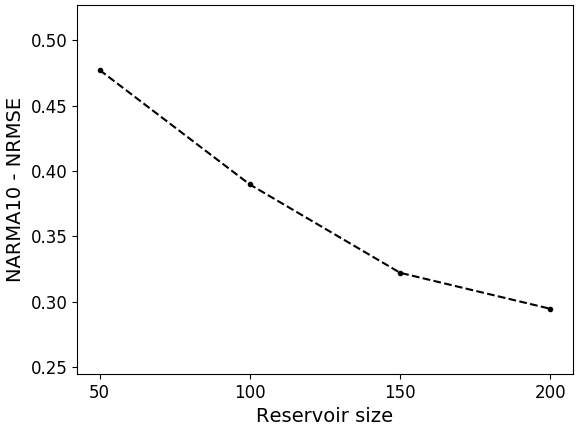
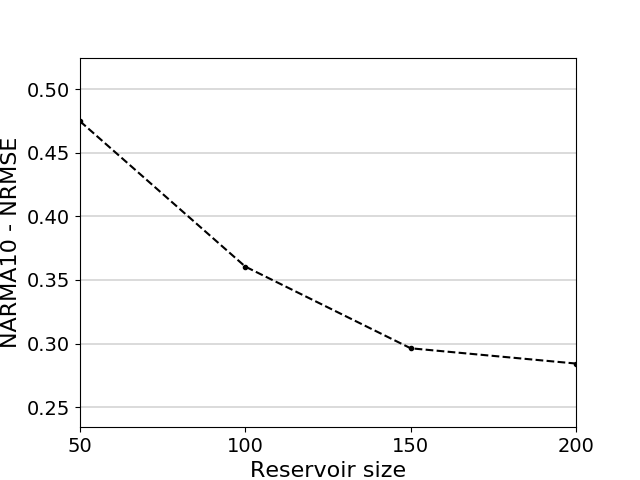
Resize some old so all have same size.

diff --git a/sections/results.tex b/sections/results.tex
@@ -36,6 +36,15 @@ radius of 0.9.
 
 \subsection{Partially visible state}
 
+\begin{figure}[htbp]
+  \centering
+  \includegraphics[width=2.5in]{img/input_scaling_distrib.png}
+  \caption{
+    Effect of input scaling on three input weight distributions.
+  }
+  \label{performance}
+\end{figure}
+
 \begin{figure*}[htbp]
   \centering
   \begin{subfigure}{.3\textwidth}
@@ -60,20 +69,11 @@ containing non-zero elements.
   \label{performance}
 \end{figure*}
 
-\begin{figure}[htbp]
-  \centering
-  \includegraphics[width=2.5in]{img/input_scaling_distrib.png}
-  \caption{
-    Effect of input scaling on three input weight distributions.
-  }
-  \label{performance}
-\end{figure}
-
 % (TODO): What about other weight distributions?
 
-% (TODO): Is w_density also interesting for physical reservoirs?
-
 \subsection{Topology}
+
+% (TODO): Is w_density also interesting for physical reservoirs?
 
 %%% Local Variables:
 %%% mode: latex

diff --git a/py/plot.py b/py/plot.py
@@ -230,9 +230,7 @@ def performance_sweep(dataset):
     params = { 'hidden_nodes': hidden_nodes }
     nrmses = evaluate_esn_1d(dataset, params, runs_per_iteration=10)
 
-    plt.rc('xtick', labelsize=14)
-    plt.rc('ytick', labelsize=14)
-    plt.rc('axes', labelsize=16)
+    set_font_sizes()
 
     plt.plot(hidden_nodes, nrmses, color='black', linestyle='dashed', marker='.')
 
@@ -243,7 +241,10 @@ def performance_sweep(dataset):
     maxlim = np.max(nrmses) + 0.05
     minlim = np.min(nrmses) - 0.05
     plt.ylim(minlim, maxlim)
+    plt.hlines(y = np.arange(0.0, 1.05, 0.05), xmin=50, xmax=200, linewidth=0.2)
 
+    plt.margins(0.0)
+    plt.savefig('plots/' + get_time())
     plt.show()
 
 
@@ -270,4 +271,5 @@ def visualize(dataset, washout=200):
     plt.ylabel('Reservoir output')
     plt.xlabel('Time')
 
+    plt.savefig('plots/' + get_time())
     plt.show()
